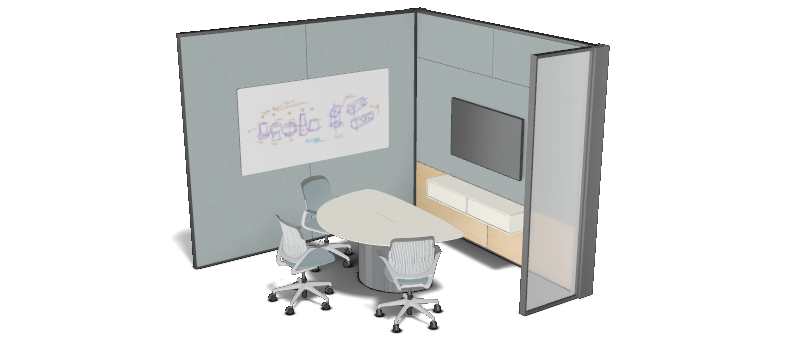
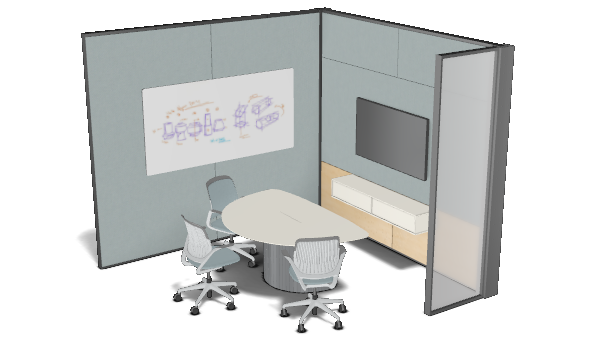
[ui_branch] update ui image size for room cards

diff --git a/src/components/Cards/CardRoom/CardRoom.module.scss b/src/components/Cards/CardRoom/CardRoom.module.scss
@@ -15,7 +15,7 @@
     & img {
       width: 100%;
       height: 100%;
-      object-fit: cover;
+      object-fit: contain;
     }
   }
 
